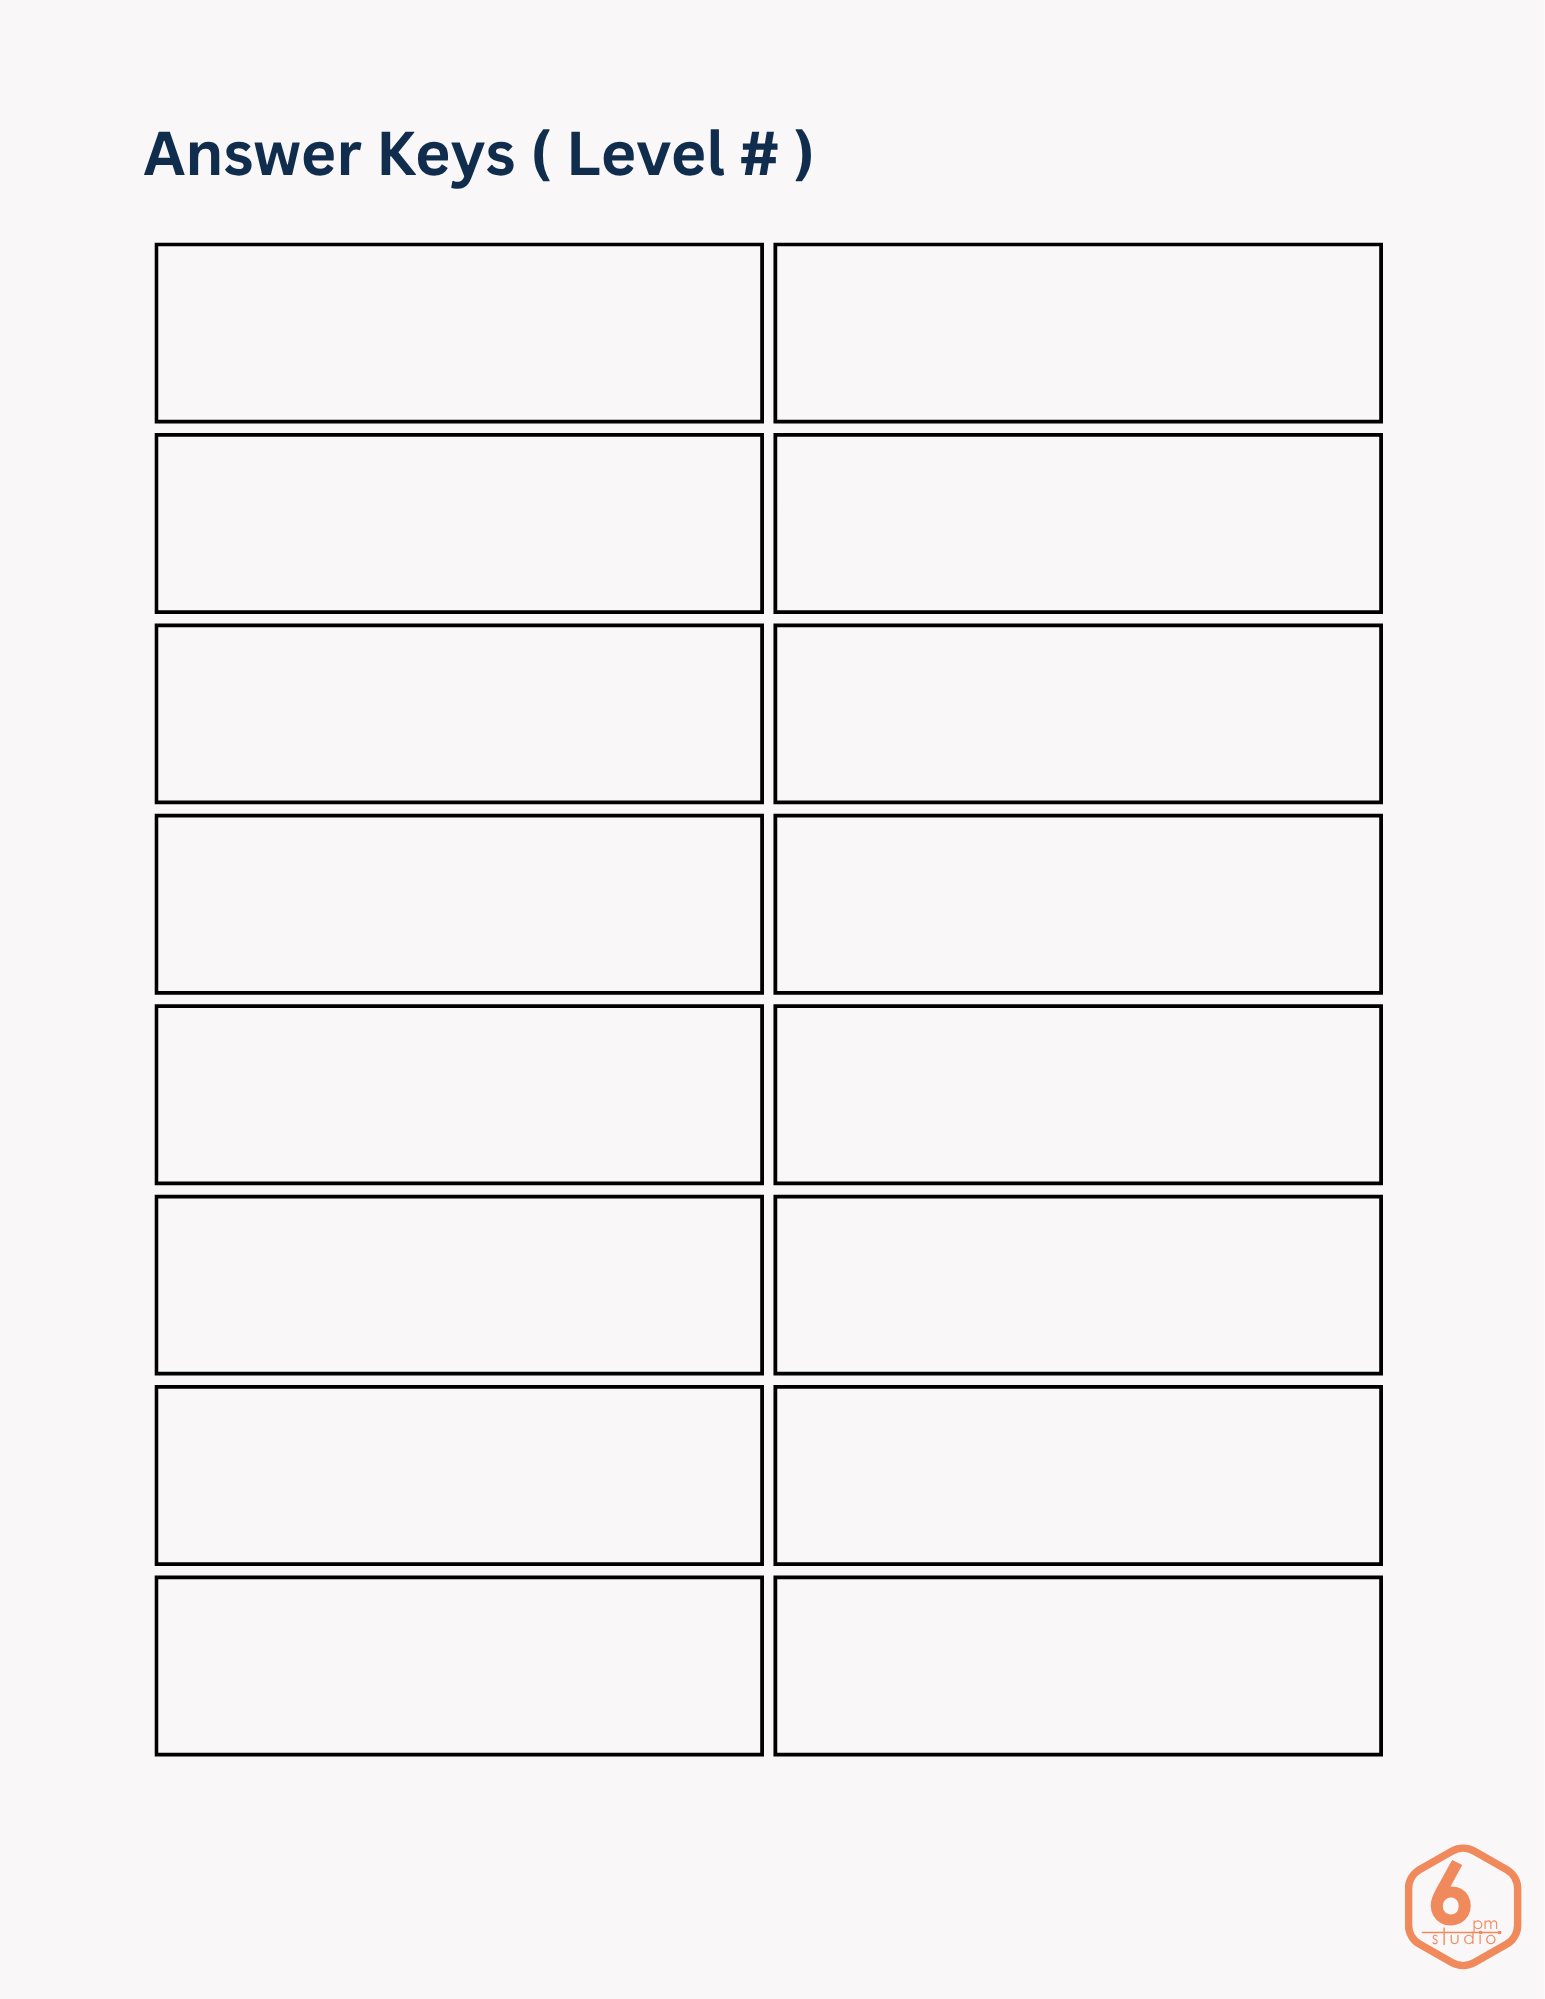
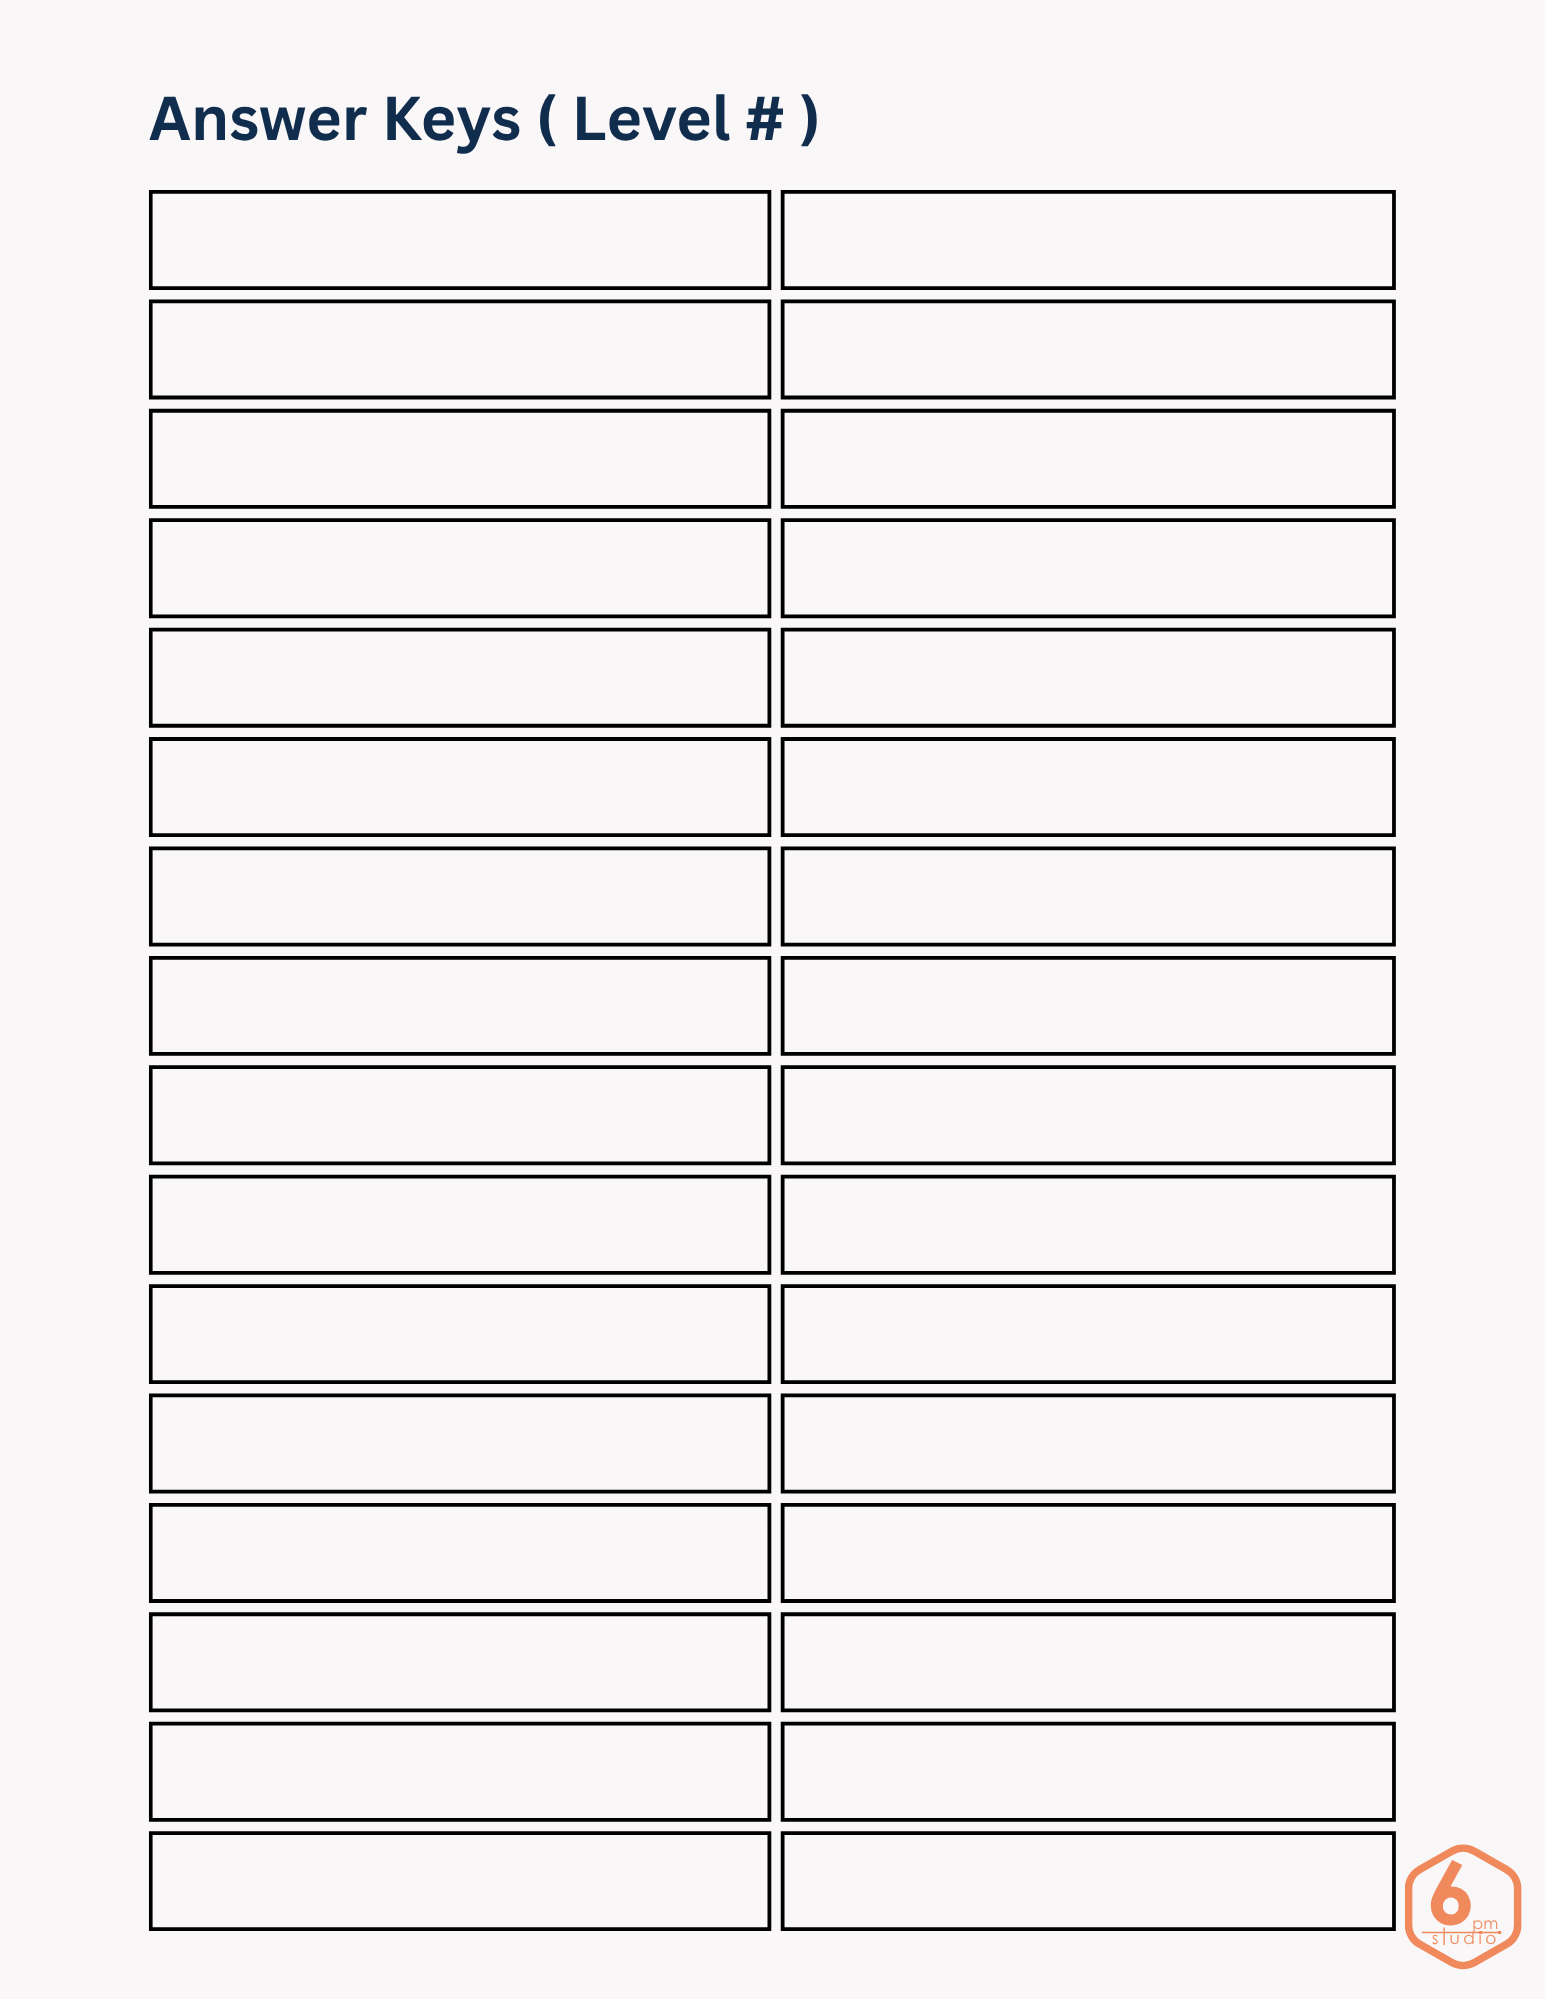
Sync Answer Key renderer with 32-cell template

Changed region(s): [[0.0932, 0.031, 0.901, 0.9615]]

diff --git a/docs/content-schema.md b/docs/content-schema.md
@@ -106,10 +106,11 @@ Date,Emoji,Title,Hook,Core_Story,Trivia,Math_Level_1,Math_Level_2,Math_Level_3,M
 The Answer Key renderer reads `answerKey.level1`, `answerKey.level2`, and
 `answerKey.level3`, then emits six SVG pages in level order (two pages per
 level). Entries are placed left to right, then top to bottom in the
-`template-05.png` grid; each populated cell shows only a sequential `Q#:` and
-the entry's final answer, while unused slots remain blank. Question numbers
-continue across the two pages for each level. Each page is `1545 × 1999`.
-Answer text uses a larger 30-unit font and reflows within the cell; content
+`template-05.png` grid; each page has 2 columns × 16 rows (32 slots). Each
+populated cell shows only a sequential `Q#:` and the entry's final answer,
+while unused slots remain blank. Question numbers continue across the two
+pages for each level. Each page is `1545 × 1999`.
+Answer text uses a compact 20-unit font sized for the 100-unit cell and reflows within the cell; content
 that exceeds the seven-line capacity fails with an actionable error.
 For review, `docs/mockups/answer-key-1969-07-20.svg` is a generated Level 1
 page from the example content.
